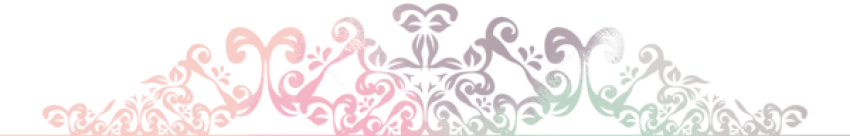
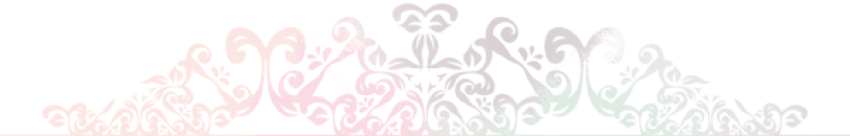
fixed a few bugs

Changed region(s): [[0.0306, 0.0294, 1.0, 1.0], [0.7953, 0.5588, 0.8259, 0.6176], [0.7341, 0.5588, 0.7647, 0.6176]]

diff --git a/style.css b/style.css
@@ -22,6 +22,10 @@ body {
   gap: 20px;
   border-bottom: 1px solid #f292ac;
   position: sticky;
+  background-image: url(images/headerOrnament.png);
+  background-repeat: no-repeat;
+  background-position: center;
+  opacity: 0.8;
 }
 
 .header img {
@@ -35,7 +39,8 @@ body {
   font-size: 23px;
   color: #f292ac;
   font-family: "WaterGalon", sans-serif;
-  background-color: #f7f7f7;
+  background-color: transparent;
+  width: 300px;
   border: none;
   cursor: pointer;
   transition: 0.2s;
@@ -55,7 +60,7 @@ body {
   height: 500px;
   width: 1400px;
   margin-top: 47px;
-  box-shadow: 0 2px 5px 0 rgba(0, 0, 0, 0.1);
+  box-shadow: 0 2px 5px 0 rgba(31, 0, 5, 0.1);
   opacity: 0;
   transform: translateY(-10px);
   transition: opacity 150ms ease-in-out, transform 150ms ease-in-out;
@@ -70,13 +75,13 @@ body {
 
 .header-nav {
   display: flex;
-  gap: 14px;
-  padding-left: 15x;
+  gap: 16px;
 }
 
 .header-nav-item {
   text-decoration: none;
   font-family: "WaffleStory", sans-serif;
+  white-space: nowrap;
   font-size: 18px;
   color: #7ecc9b;
   transition: 0.2s;
@@ -86,22 +91,14 @@ body {
   color: #3da55c;
 }
 
-.header-ornament img {
-  margin-left: 10%;
-  margin-top: 3%;
-  max-width: 800px;
-  height: auto;
-  width: 100%;
-  opacity: 0.5;
-}
-
 .header-login {
   display: flex;
   justify-content: flex-end;
   gap: 18px;
-  width: 23%;
+  width: 50%;
   margin-right: 60px;
   align-items: center;
+  white-space: nowrap;
 }
 
 .header-login-item {

diff --git a/index.html b/index.html
@@ -6,6 +6,7 @@
     <meta name="viewport" content="width=device-width, initial-scale=1.0" />
     <title>Digomi Gardens</title>
     <link rel="stylesheet" href="style.css" />
+    <link rel="icon" href="images/logo.png" />
   </head>
   <body>
     <header class="header">
@@ -22,7 +23,7 @@
         <a href="#" class="header-nav-item">Contact</a>
       </nav>
       <div class="header-ornament">
-        <img src="images/headerOrnament.png" />
+        <!-- <img src="images/headerOrnament.png" /> -->
       </div>
       <div class="header-login">
         <a href="#" class="header-login-item">Log In</a>
@@ -31,6 +32,7 @@
     </header>
   </body>
   <script>
+    //this script is stolen lmao
     document.addEventListener("click", (e) => {
       const isDropdownButton = e.target.matches("[data-dropdown-button]");
       if (!isDropdownButton && e.target.closest("[data-dropdown]") != null)
